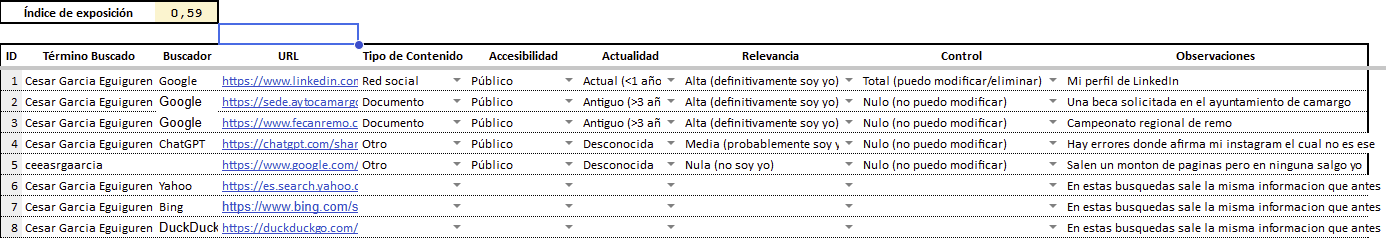
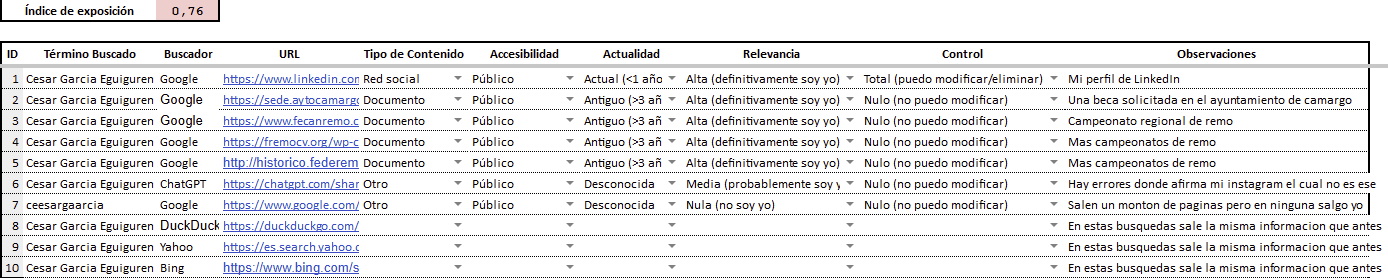
parte terminada

diff --git a/Entregas/Entrega-3/HuellaDigital.md b/Entregas/Entrega-3/HuellaDigital.md
@@ -45,12 +45,12 @@
 
 |Vulnerabilidad|Diego García|Carlos Alfonso|Iker Celaya|Sebastian Chmielowski|Cesar García|Valvanuz Obregón|Eduardo Olea|Lucia Prieto|Daniel Puente|Anette Torres|% Grupo|Riesgo medio|
 |-|-|-|-|-|-|-|-|-|-|-|-|-|
-|Datos personales expuestos|2|-|-|-|-|0|-|-|-|-|-|-|
-|Información profesional|1|-|-|-|-|0|-|-|-|-|-|-|
-|Fotos personales|3|-|-|-|-|3|-|-|-|-|-|-|
-|Menciones en medios|-|-|-|-|-|0|-|-|-|-|-|-|
-|Documentos académicos|-|-|-|-|-|1|-|-|-|-|-|-|
-|Perfiles abandonados|-|-|-|-|-|0|-|0|-|-|-|-|
+|Datos personales expuestos|2|-|-|-|0|0|-|-|-|-|-|-|
+|Información profesional|1|-|-|-|1|0|-|-|-|-|-|-|
+|Fotos personales|3|-|-|-|0|3|-|-|-|-|-|-|
+|Menciones en medios|-|-|-|-|0|0|-|-|-|-|-|-|
+|Documentos académicos|-|-|-|-|1|1|-|-|-|-|-|-|
+|Perfiles abandonados|-|-|-|-|0|0|-|0|-|-|-|-|
 
 </div>
 
@@ -60,9 +60,9 @@
 
 |Tipo de control|Diego García|Carlos Alfonso|Iker Celaya|Sebastian Chmielowski|Cesar García|Valvanuz Obregón|Eduardo Olea|Lucia Prieto|Daniel Puente|Anette Torres|% Grupo|Riesgo promedio|
 |-|-|-|-|-|-|-|-|-|-|-|-|-|
-|Total|3|-|-|-|-|4|-|-|-|-|-|-|-|
-|Parcial|-|-|-|-|-|0|-|-|-|-|-|-|-|
-|Nulo|12|-|-|-|-|3|-|-|-|-|-|-|-|
+|Total|3|-|-|-|1|4|-|-|-|-|-|-|-|
+|Parcial|-|-|-|-|0|0|-|-|-|-|-|-|-|
+|Nulo|12|-|-|-|6|3|-|-|-|-|-|-|-|
 
 </div>
 
@@ -72,11 +72,11 @@
 
 |Exposición|Diego García|Carlos Alfonso|Iker Celaya|Sebastian Chmielowski|Cesar García|Valvanuz Obregón|Eduardo Olea|Lucia Prieto|Daniel Puente|Anette Torres|% grupal|
 |-|-|-|-|-|-|-|-|-|-|-|-|
-|Total brechas|1|-|-|-|-|2|-|0|-|-|-|-|
-|Datos personales|1|-|-|-|-|0|-|0|-|-|-|-|
-|Contraseñas|1|-|-|-|-|0|-|0|-|-|-|-|
-|Emails|1|-|-|-|-|2|-|0|-|-|-|-|
-|Servicios críticos|-|-|-|-|-|0|-|0|-|-|-|-|
+|Total brechas|1|-|-|-|0|2|-|0|-|-|-|-|
+|Datos personales|1|-|-|-|0|0|-|0|-|-|-|-|
+|Contraseñas|1|-|-|-|0|0|-|0|-|-|-|-|
+|Emails|1|-|-|-|0|2|-|0|-|-|-|-|
+|Servicios críticos|-|-|-|-|0|0|-|0|-|-|-|-|
 
 </div>
 
@@ -87,9 +87,9 @@
 |Categoría de impacto|Diego García|Carlos Alfonso|Iker Celaya|Sebastian Chmielowski|Cesar García|Valvanuz Obregón|Eduardo Olea|Lucia Prieto|Daniel Puente|Anette Torres|Impacto grupal|
 |-|-|-|-|-|-|-|-|-|-|-|-|
 |Personal|-|-|-|-|-|3|-|-|-|-|-|-|
-|Profesional|1|-|-|-|-|0|-|-|-|-|-|-|
-|Académico|-|-|-|-|-|1|-|-|-|-|-|-|
-|Social|3|-|-|-|-|0|-|-|-|-|-|-|
+|Profesional|1|-|-|-|1|0|-|-|-|-|-|-|
+|Académico|-|-|-|-|1|1|-|-|-|-|-|-|
+|Social|3|-|-|-|3|0|-|-|-|-|-|-|
 
 </div>
 
